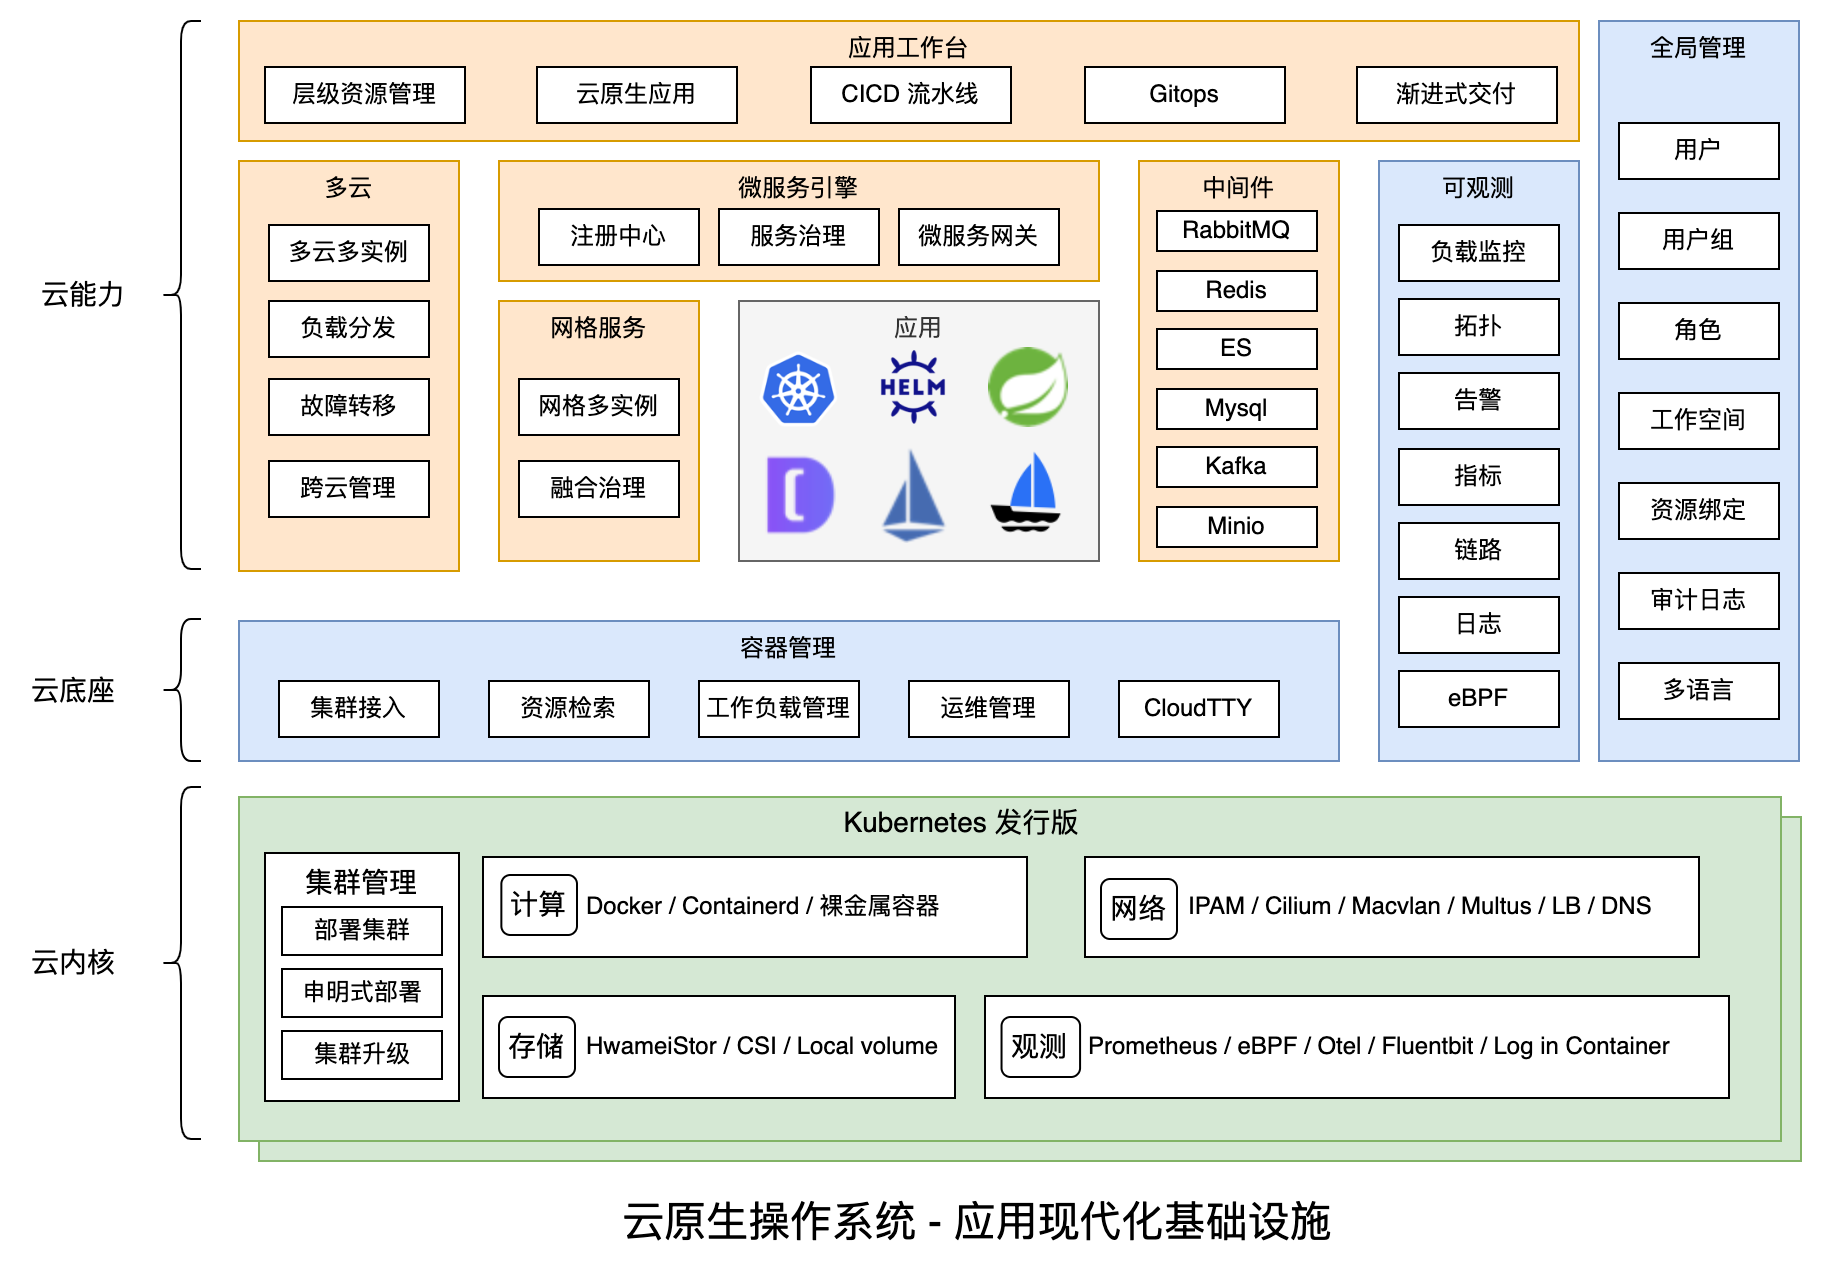
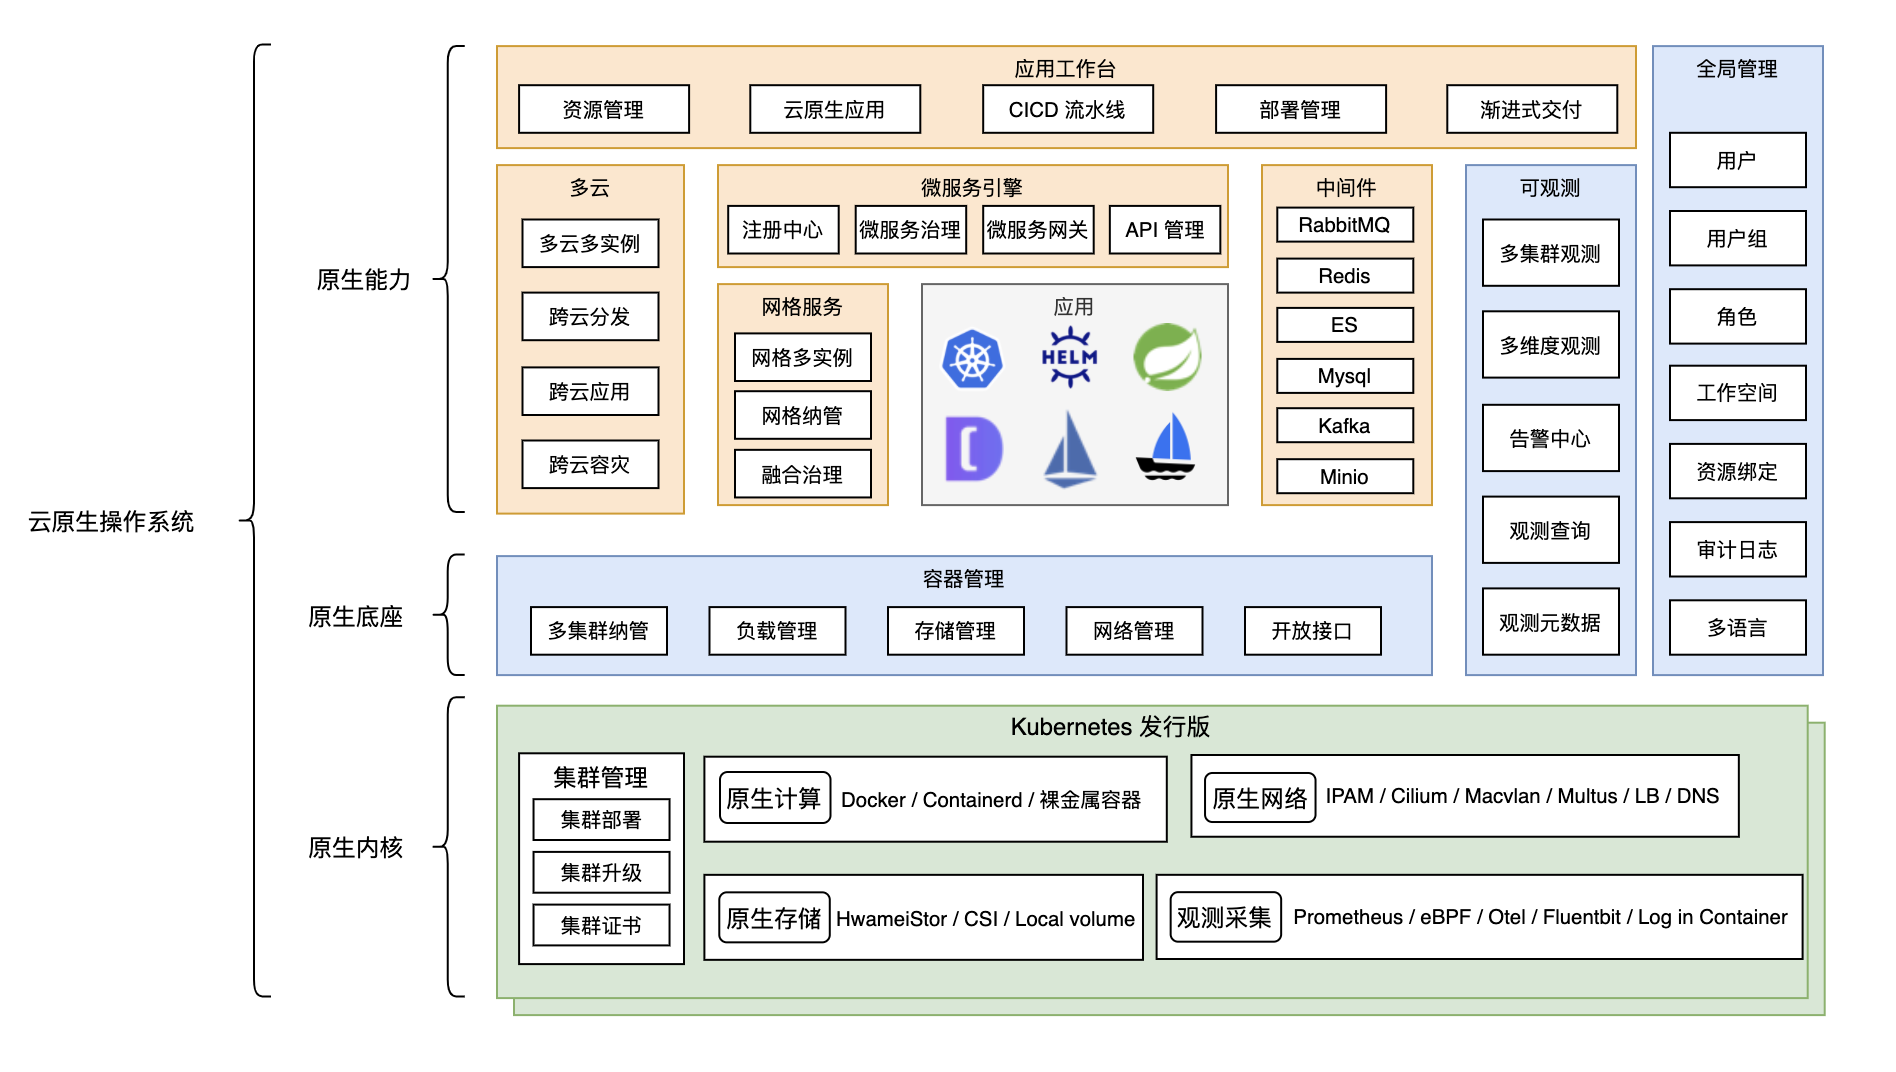
updated what topic

diff --git a/docs/zh/dce/what-is-dce.md b/docs/zh/dce/what-is-dce.md
@@ -5,4 +5,58 @@ DaoCloud Enterprise 是基于 Kubernetes 云原生及相关技术，打造的领
 实现「DevOps」开发运维模式，标准化应用交付与流程化运维管控，获得安全可靠的自动化运维能力，提升应用交付速度，提高企业 IT 运维效率。
 以面向互联网「敏态 IT」的速度、规模和可靠性，管理日新月异的现代化企业应用和软件定义的数据中心，加速企业数字化转型。
 
+![模块图](../images/dce-modules01.png)
+
+第五代产品全名为 DaoCloud Enterprise 5.0，简称 DCE 5.0，从多云编排起步构建了适配性极强的容器管理模块，能够纳管目前市场上几乎所有类型的容器化集群，
+兼容并蓄的容器化平台能够集中管控应用市场、镜像仓库组成的制品中心，原生集成 CI/CD 流水线应用工作台，禀赋最前沿的服务网格和微服务技术，
+将可观测的属性贯穿于每一个流量生发的始终，助力洞察集群、节点、应用和服务的详细指标，在精选的各类数据库和分布式消息等中间件的支持下，
+让用户及时获知当前服务状况，从动态更新的监控仪表盘和拓扑大图中把控业务数据，助力及早做出有价值的决策。
+
+就像乐高搭积木一样，糅合社区最优秀的几十种开源技术，经过众多辩证选型、适配磨合、编码调试、海量测试，“十年磨一剑，一朝试锋芒”，全新搭建的新一代容器化平台能够满足企业上云的各类场景需求。
+
 ![img](../images/ops-tech.png)
+
+=== "容器管理"
+
+云容器管理是基于 Kubernetes 开源技术构建的面向云原生应用的容器管理平台，基于原生多云架构，解耦底层基础设施平台，实现多云与多集群统一化管理，简化企业的应用上云流程，降低运维管理和人力成本。 便捷创建 Kubernetes 集群，帮助企业快速搭建企业级的容器云平台。进一步了解[容器管理](../kpanda/03ProductBrief/WhatisKPanda.md)。
+
+=== "全局管理"
+
+全局管理是以用户为中心的综合性服务板块，包含用户与访问控制、企业空间、审计日志、平台设置等基础服务模块。进一步了解[全局管理](../ghippo/01ProductBrief/WhatisGhippo.md)。
+
+- 用户与访问控制：帮助用户安全的管理资源的访问权限，您可以通过用户与访问控制创建、管理、删除用户/用户组，并灵活配置用户/用户组权限，来完成用户职能权限的划分。
+
+- 企业空间：是具有层级结构和访问权限控制的资源隔离单元，您可以按照企业开发环境、部门结构等设置层级结构，并控制哪些人对哪些资源具有访问权限
+
+- 审计日志：为您提供资源的操作记录，通过操作记录您可以快速实现安全分析、资源变更、问题定位等。
+
+- 平台设置：可以通过平台安全策略、邮件服务器、外观定制等，来提高用户信息的安全性和平台的个性化
+
+=== "可观测性"
+
+可观测模块 (Insight) 是以应用为中心、开箱即用的新一代云原生可观测性平台，实时监控应用及资源，采集各项指标、日志及事件等数据分析应用健康状态， 提供告警能力以及全面、清晰、多维度数据可视化能力，兼容主流开源组件，并提供快捷故障定位及一键监控诊断的能力。进一步了解[可观测性](../insight/03ProductBrief/WhatisKInsight.md)。
+
+=== "多云编排"
+
+多云编排 Kairship（Kubernetes Airship）是一个以应用为中心、开箱即用的多云应用编排平台。实现了多云和混合云的集中管理，提供跨云的应用部署、发布和运维的能力；支持基于集群资源的应用弹性伸缩，实现全局负载均衡；提供了故障恢复的能力，彻底解决多云应用灾备的问题。进一步了解[多云编排](../kairship/01product/whatiskair.md)。
+
+=== "应用工作台"
+
+多云编排 Kairship（Kubernetes Airship）是一个以应用为中心、开箱即用的多云应用编排平台。实现了多云和混合云的集中管理，提供跨云的应用部署、发布和运维的能力；支持基于集群资源的应用弹性伸缩，实现全局负载均衡；提供了故障恢复的能力，彻底解决多云应用灾备的问题。进一步了解[应用工作台](../amamba/01ProductBrief/WhatisAmamba.md)。
+
+=== "更多模块有待您的发现和探索"
+
+| 模块名称         | 功能说明                                                     |
+| ---------------- | ------------------------------------------------------------ |
+| 全局管理         | 三户一证，提供必要的全局管理，让各个产品模块能够协同，同时尽可能解耦。为用户提供统一的登录登出入口，围绕用户、租户、门户、许可证等提供必要的全局管理，让各个产品模块能够协同，同时尽可能解耦。 |
+| 容器管理         | 兼容 OpenShift、开源 kube 等，跨异构 kube 发行版如履平地。基于 Kubernetes 开源技术打造云容器管理平台，构建的面向云原生应用的容器管理平台，基于原生多云架构，解耦底层基础设施平台，实现多云与多集群统一化管理，简化企业的应用上云流程，降低运维管理和人力成本。 |
+| 可观测性         | 提供 Metrics、Log、Tracing 三合一的云原生可观测性。可观测性是以云原生可观测性为核心实现的新一代运维产品，支持实时采集指标、日志和链路的数据，提供告警及灵活的通知配置，实现快速的故障定位和快捷的故障排查。 |
+| 应用工作台       | 零门槛的应用工作台，可以让开发人员 一条龙式的体验，轻松搞定 CICD 全流程。致力于帮助企业在任何云上构建、运行管理云原生应用程序，覆盖应用全生命周期管理。并通过敏捷化开发交付流程和现代化应用架构，持续交付用户喜爱的产品。 |
+| 集群生命周期管理 | 全自动，全生命周期（安装、升级、配置）的 Kubernetes 集群管理。管理集群和业务集群分离的双态架构，让应用稳如泰山。Kubernetes 版本升级，结合跨集群调度技术，平滑完成底层 Kubernetes 集群升级。 |
+| 网络             | 能够兼容各种底层网络环境 （公有云、私有云、虚拟化、物理机、SDN）的自适应网络方案，支持多网络模式组合，以及网络策略，网络加速等能力。 |
+| 存储             | 提供强企业级存储服务接入能力, 自带本地存储。                 |
+| 镜像仓库         | 容器镜像及 Helm Charts 标准制品的全生命周期管理，提供简单易用、安全可靠的制品管理功能，同容器平台无缝结合，帮助企业降低交付复杂度，打造云原生应用部署一站式解决方案。 |
+| 多云编排         | 多云分发，多集群容灾 ，跨集群网络。结合底层存储技术，可实现 跨级群双活架构。 |
+| 中间件           | 精选的，可以在生产环境 可靠运行的 有状态中间件。             |
+| 微服务           | 为客户提供一站式微服务治理解决方案平台软件, 基于传统微服务治理及云原生微服务治理提供统一的产品功能和体验, 并解决客户从传统微服务迁移至云原生微服务过程中的各种问题。 |
+| 服务网格         | 提供非侵入式流量治理功能，解决用户在多云多集群复杂云原生容器环境下的服务治理问题，实现统一治理、统一监控的目标。并为综合微服务管理引擎提供容器化微服务的治理能力支持和传统微服务接入支持。 |
